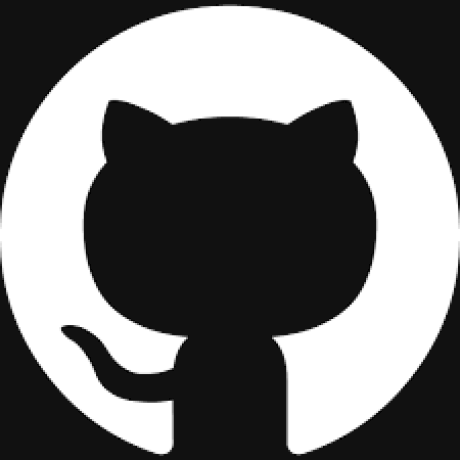
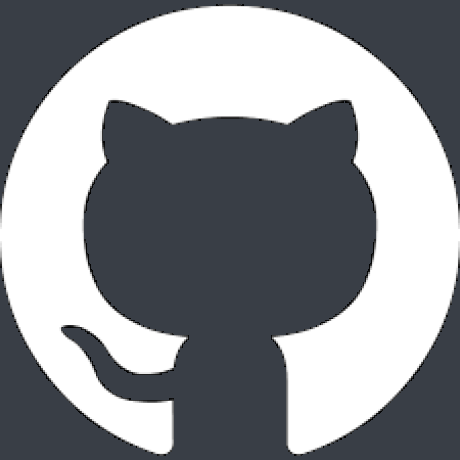
Finished homepage

diff --git a/src/components/HomePage.tsx b/src/components/HomePage.tsx
@@ -1,6 +1,7 @@
 import React from 'react'
 import styles from './homepage.module.scss'
 import color from '../images/color.png'
+import pastel from '../images/pastel.jpg'
 import Emoji from './common/Emoji'
 
 const codeBody =
@@ -12,17 +13,33 @@ const scienceBody =
 
 const ScienceTitleComponent = () => (
     <div className={styles.emojiTitle}>
-        <Emoji symbol={'🔬'} fontSize={'32px'} />
+        <Emoji symbol={'🔬'} marginRight={'6px'} />
         <div className={styles.title}>science</div>
-        <Emoji symbol={'🧪'} fontSize={'32px'} transform={'rotate(315deg)'} />
+        <Emoji symbol={'🧪'} transform={'rotate(315deg)'} />
+    </div>
+)
+
+const CodeTitleComponent = () => (
+    <div className={styles.emojiTitle}>
+        <Emoji symbol={'💻'} marginTop={'32px'} />
+        <div className={styles.title}>code</div>
+        <Emoji symbol={'💾'} marginTop={'32px'} />
     </div>
 )
 
 export default function HomePage() {
     return (
         <div className={styles.homepage}>
-            <HalfPage title={'<code>'} body={codeBody} image={color} />
-            <HalfPage title={<ScienceTitleComponent />} body={scienceBody} />
+            <HalfPage
+                title={<CodeTitleComponent />}
+                body={codeBody}
+                image={color}
+            />
+            <HalfPage
+                title={<ScienceTitleComponent />}
+                body={scienceBody}
+                image={pastel}
+            />
         </div>
     )
 }

diff --git a/src/components/homepage.module.scss b/src/components/homepage.module.scss
@@ -8,19 +8,24 @@
         display: grid;
         place-items: center;
         grid-template-areas: 'inner-div';
-        min-width: 600px;
-        min-height: 600px;
         width: 50%;
         height: 100%;
 
         &:hover {
             cursor: pointer;
+
+            img {
+                opacity: 1;
+                transition: opacity 1s;
+            }
         }
 
         .textContainer {
             grid-area: inner-div;
             z-index: 2;
             width: 35%;
+            max-width: 300px;
+            min-width: 200px;
         }
 
         .title {
@@ -38,13 +43,10 @@
         img {
             width: 100%;
             height: 100%;
+            max-height: 91vh;
             opacity: 0;
             transition: opacity 500ms;
             grid-area: inner-div;
-            &:hover {
-                opacity: 1;
-                transition: opacity 1s;
-            }
         }
     }
     .emojiTitle {
@@ -52,6 +54,5 @@
         flex-direction: row;
         justify-content: center;
         text-align: center;
-        font-size: 32pt;
     }
 }

diff --git a/src/components/header/header.module.scss b/src/components/header/header.module.scss
@@ -2,18 +2,26 @@
     display: flex;
     flex-direction: row;
     justify-content: space-between;
-    background-color: #111111;
+    background-color: #393e46;
     color: white;
     height: 9vh;
     padding: 0 5vw;
 
     .logo {
+        display: flex;
+        align-items: center;
+        justify-content: center;
+        height: 100%;
+        width: 250px;
         img {
-            height: 100%;
-            transition: transform 0.7s ease-in-out;
+            height: 90%;
+            width: 230px;
+            transition: height, width 300ms;
         }
         img:hover {
-            transform: rotate(360deg);
+            height: 95%;
+            width: 250px;
+            transition: height, width 300ms;
         }
     }
 

diff --git a/src/components/common/Emoji.tsx b/src/components/common/Emoji.tsx
@@ -5,11 +5,15 @@ export default function Emoji({
     symbol,
     fontSize,
     transform,
+    marginTop,
+    marginRight,
 }: {
     label?: string
     symbol: string
     fontSize?: string
     transform?: string
+    marginTop?: string
+    marginRight?: string
 }) {
     return (
         <span
@@ -18,8 +22,9 @@ export default function Emoji({
             aria-label={label}
             aria-hidden={!label}
             style={{
-                fontSize: fontSize,
-                marginTop: '29px',
+                fontSize: fontSize ?? '22pt',
+                marginTop: marginTop ?? '32px',
+                marginRight: marginRight ?? 'auto',
                 margin: 'auto',
                 transform: transform,
             }}

diff --git a/src/components/header/Socials.tsx b/src/components/header/Socials.tsx
@@ -1,7 +1,7 @@
 import React from 'react'
 import styles from './header.module.scss'
-import linkedinLogo from '../../images/linkedin.jpg'
-import githubLogo from '../../images/github.jpg'
+import linkedinLogo from '../../images/linkedin.png'
+import githubLogo from '../../images/github.png'
 import netlightLogo from '../../images/netlight.jpg'
 
 export default function Socials() {

diff --git a/src/components/header/Logo.tsx b/src/components/header/Logo.tsx
@@ -1,6 +1,6 @@
 import React from 'react'
 import styles from './header.module.scss'
-import logo from '../../logo.svg'
+import logo from '../../images/logo.png'
 import { Link } from 'react-router-dom'
 
 export default function Logo() {
